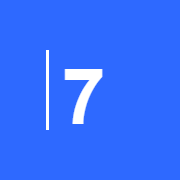
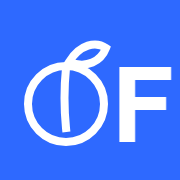
Add files via upload

Changed region(s): [[0.1111, 0.2222, 0.6111, 0.8333], [0.6389, 0.3611, 0.9722, 0.8056]]

diff --git a/index.html b/index.html
@@ -2,14 +2,15 @@
 <html>
 <head>
 <meta charset="utf-8">
-<title>Pantry</title>
+<title>Only Fresh</title>
 <meta name="viewport" content="width=device-width, initial-scale=1, viewport-fit=cover, maximum-scale=1">
 <meta name="apple-mobile-web-app-capable" content="yes">
 <meta name="mobile-web-app-capable" content="yes">
 <meta name="apple-mobile-web-app-status-bar-style" content="default">
-<meta name="apple-mobile-web-app-title" content="Pantry">
+<meta name="apple-mobile-web-app-title" content="Only Fresh">
 <meta name="theme-color" content="#E4ECFF">
 <link rel="apple-touch-icon" href="icon.png">
+<link rel="icon" type="image/svg+xml" href="icon.svg">
 <script src="./support.js"></script>
 </head>
 <body>
@@ -19,7 +20,7 @@
 <meta name="apple-mobile-web-app-capable" content="yes">
 <meta name="mobile-web-app-capable" content="yes">
 <meta name="apple-mobile-web-app-status-bar-style" content="default">
-<meta name="apple-mobile-web-app-title" content="Pantry">
+<meta name="apple-mobile-web-app-title" content="Only Fresh">
 <meta name="theme-color" content="#E4ECFF">
 <link rel="stylesheet" href="ds/colors_and_type.css">
 <script src="ds/bundle.js"></script>
@@ -31,8 +32,8 @@
 
 <sc-if value="{{ isList }}" hint-placeholder-val="{{ true }}">
 <div style="background:#E4ECFF;padding:calc(env(safe-area-inset-top) + 20px) 20px 24px;display:flex;flex-direction:column;gap:20px;flex:none" data-screen-label="Home">
-<div style="display:flex;justify-content:space-between;align-items:baseline">
-<div style="font:700 11px/14px Arial;text-transform:uppercase;color:#2E69FF">Pantry · {{ todayLabel }}</div>
+<div style="display:flex;justify-content:space-between;align-items:center">
+<div style="display:flex;align-items:center;gap:8px"><svg width="26" height="26" viewBox="0 0 180 180" style="display:block;flex:none"><g fill="none" stroke="#2E69FF" stroke-width="14" stroke-linecap="square" stroke-linejoin="miter"><circle cx="90" cy="106" r="58"></circle><path d="M90 50c-3 28-3 60 0 90"></path><path d="M94 42c16-26 40-30 54-20-8 18-28 30-54 20z"></path></g></svg><div style="font:700 15px/18px Arial;letter-spacing:-0.025em;color:#000">Only Fresh</div><div style="font:700 11px/14px Arial;text-transform:uppercase;color:#2E69FF;margin-left:4px">{{ todayLabel }}</div></div>
 <div style="display:flex;gap:16px;font:400 13px/16px Arial">
 <div onClick="{{ goHome }}" style="cursor:pointer;padding:6px 0">{{ homeLabel }}</div>
 <div onClick="{{ goExpiring }}" style="cursor:pointer;padding:6px 0">{{ expiringLabel }}</div>
@@ -499,10 +500,10 @@ class Component extends DCLogic {
   // backup
   async exportData() {
     const payload = JSON.stringify({ app: 'pantry-expiry', exported: iso(today()), items: this.state.items }, null, 2);
-    const name = `pantry-backup-${iso(today())}.json`;
+    const name = `only-fresh-backup-${iso(today())}.json`;
     const file = new File([payload], name, { type: 'application/json' });
     if (navigator.canShare && navigator.canShare({ files: [file] })) {
-      try { await navigator.share({ files: [file], title: 'Pantry backup' }); this.setState({ backupNote: `Shared ${this.state.items.length} items.` }); return; } catch (e) { if (e.name === 'AbortError') return; }
+      try { await navigator.share({ files: [file], title: 'Only Fresh backup' }); this.setState({ backupNote: `Shared ${this.state.items.length} items.` }); return; } catch (e) { if (e.name === 'AbortError') return; }
     }
     const a = document.createElement('a'); a.href = URL.createObjectURL(file); a.download = name; document.body.appendChild(a); a.click(); a.remove();
     this.setState({ backupNote: `Exported ${this.state.items.length} items to ${name}.` });
@@ -528,7 +529,7 @@ class Component extends DCLogic {
         }
         const skipped = incoming.length - added.length;
         this.commit([...s.items, ...added], id, { backupNote: added.length ? `Imported ${added.length} new item${added.length === 1 ? '' : 's'}${skipped ? `, skipped ${skipped} already in stock` : ''}.` : 'Nothing new to import — all items already in stock.' });
-      } catch (err) { this.setState({ backupNote: 'That file is not a Pantry backup.' }); }
+      } catch (err) { this.setState({ backupNote: 'That file is not an Only Fresh backup.' }); }
     };
     r.readAsText(f);
   }
